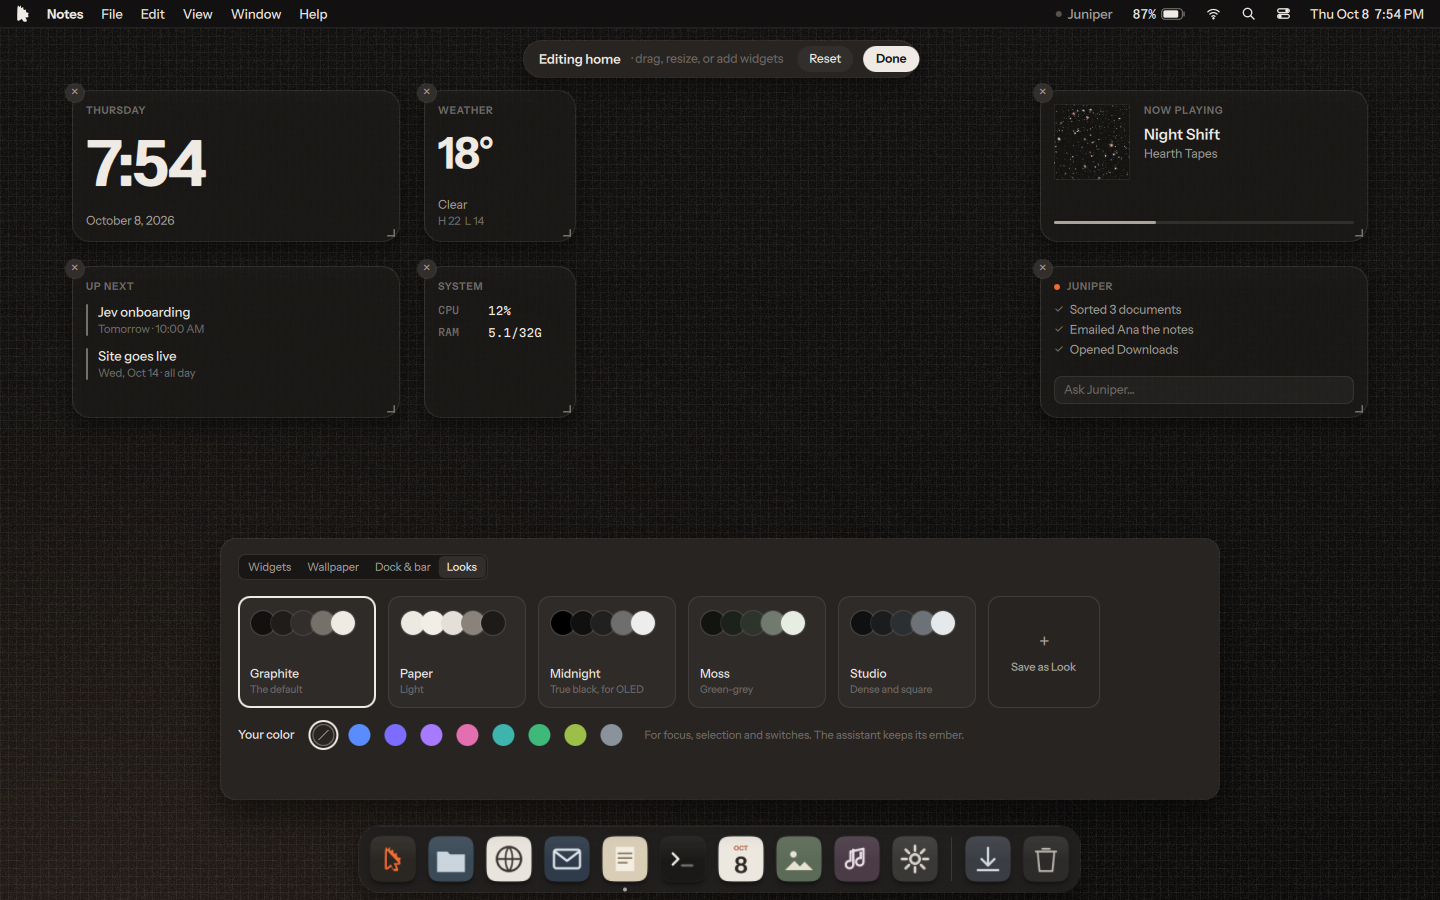
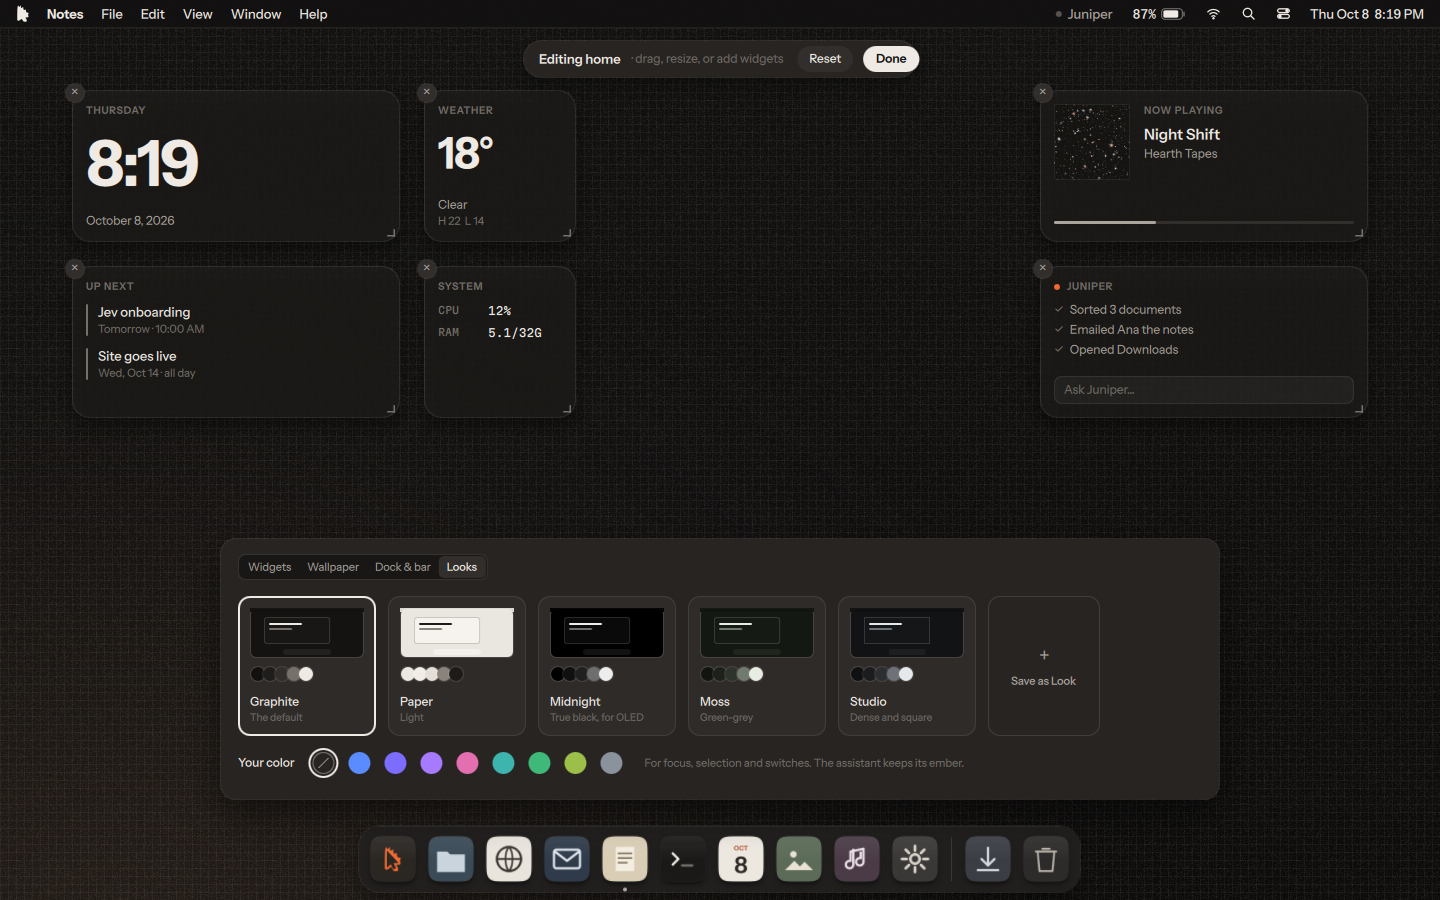
Captures for Edit home round 2: wallpapers, Looks schematics, Included packs
Claude-Session: https://claude.ai/code/session_01B11KmgS7KywUE1jfuntsyj

Changed region(s): [[0.1562, 0.6533, 0.75, 0.8711], [0.0625, 0.1556, 0.1562, 0.2178], [0.9375, 0.0, 0.9688, 0.0311]]

diff --git a/tools/qml_capture.py b/tools/qml_capture.py
@@ -355,13 +355,14 @@ elif scene == "looks":
     at(1200, lambda: run(steps))
 elif scene == "packs":
     # First boot's optional "What do you do?", then the same packs in Settings
+    call("setSetting", "browserAsked", True)
     at(200, lambda: call("showPacks"))
     steps = [("wait", 900), ("still", "packs-firstboot-empty"),
-             ("click", "Dev"), ("wait", 250), ("click", "Rice"), ("wait", 500), ("point", 900, 760, 500), ("wait", 300), ("still", "packs-firstboot"),
+             ("click", "Make"), ("wait", 250), ("click", "Play"), ("wait", 500), ("point", 900, 760, 500), ("wait", 300), ("still", "packs-firstboot"),
              ("click", "Continue"), ("wait", 1200), ("still", "packs-toast"),
              ("do", lambda: call("openSettings", "Packs")), ("wait", 900), ("click", "Dev pack", -200, 0), ("wait", 600),
-             ("click", "Install Play pack"), ("point", 1240, 800, 600), ("wait", 800), ("still", "settings-packs"),
-             ("do", lambda: call("setSetting", "packsAsked", False)), ("wait", 100), ("do", lambda: stop(0))]
+             ("click", "Install Office pack"), ("point", 1240, 800, 600), ("wait", 800), ("still", "settings-packs"),
+             ("do", lambda: (call("setSetting", "packsAsked", False), call("setSetting", "browserAsked", False))), ("wait", 100), ("do", lambda: stop(0))]
     at(400, lambda: run(steps))
 elif scene == "browsers":
     # First boot's "Pick your browser": filter, search, pick Brave; then Settings › Browser
